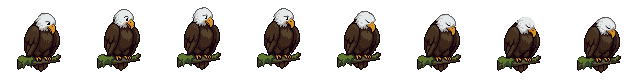
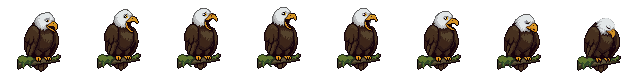
Study Eagle: a real yawn when it falls asleep
The first fall-asleep animation came out as a slow droop with the beak
shut. A second PixelLab pass (same first and last frames) gives a real
yawn: the head tips back, the beak opens wide, then the head sinks into
the sleeping pose. It plays over 2s instead of 1.6s so the open beak
reads. The other sheets are unchanged.

Claude-Session: https://claude.ai/code/session_01Ub7vGjCtfrffF12Lbhvtcm

diff --git a/src/styles.css b/src/styles.css
@@ -454,11 +454,11 @@
   background-size: 800% 100%;
   animation: eagle-celebrate-frames 1.1s steps(8, jump-none) forwards;
 }
-/* Nodding off: 8-frame droop into the sleeping pose, played once (FALL_ASLEEP_MS). */
+/* Nodding off: 8-frame yawn, then the head sinks into the sleeping pose; played once (FALL_ASLEEP_MS). */
 .study-eagle-sprite-fallingAsleep {
   background-image: url("/eagle-fallasleep.png");
   background-size: 800% 100%;
-  animation: eagle-fallasleep-frames 1.6s steps(8, jump-none) forwards;
+  animation: eagle-fallasleep-frames 2s steps(8, jump-none) forwards;
 }
 /* Waking up: 8-frame head-lift and wing stretch, played once (WAKE_UP_MS). */
 .study-eagle-sprite-wakingUp {

diff --git a/src/components/StudyEagle.tsx b/src/components/StudyEagle.tsx
@@ -19,7 +19,7 @@ const DEFAULT_PERCH = 0.62;
 const SLEEP_AFTER_MS = 20_000;
 const CELEBRATE_MS = 1_100; // matches the 8-frame wing-flap in styles.css
 const PET_MS = 900; // matches the 8-frame head-bob in styles.css
-const FALL_ASLEEP_MS = 1_600; // matches the 8-frame droop in styles.css
+const FALL_ASLEEP_MS = 2_000; // matches the 8-frame yawn in styles.css
 const WAKE_UP_MS = 1_200; // matches the 8-frame stretch in styles.css
 /** On phones a celebration pops the tucked-away eagle out for this long. */
 const POP_OUT_MS = 3_000;

diff --git a/scripts/build-eagle-sprites.py b/scripts/build-eagle-sprites.py
@@ -5,7 +5,7 @@
   pixellab-idle.png           PixelLab animation from the awake frame: blink + head turn (8 x 80x80)
   pixellab-celebrate.png      PixelLab animation from the awake frame: wing-flap (8 x 80x80)
   pixellab-pet.png            PixelLab animation from the awake frame: happy head-bob (8 x 80x80)
-  pixellab-fallasleep.png     PixelLab animation, awake frame -> sleep frame 1: eyes droop, head sinks (8 x 80x80)
+  pixellab-fallasleep.png     PixelLab animation, awake frame -> sleep frame 1: a yawn, then the head sinks (8 x 80x80)
   pixellab-wakeup.png         PixelLab animation, sleep frame 1 -> awake frame: head up, wing stretch (8 x 80x80)
 
 Outputs share one frame size, transparent with crisp pixels and one palette. The
@@ -310,7 +310,7 @@ def fix_eye(f, blink=False, reopen=False):
 idle80 = [fix_eye(f, blink=i == 0) for i, f in enumerate(idle80)]   # idle frame 0 is the blink
 celebrate80 = [fix_eye(f, reopen=True) for f in celebrate80]
 pet80, wakeup80 = ([fix_eye(f) for f in group] for group in (pet80, wakeup80))
-# falling asleep: the eyes are drowsy but open for 4 frames, then shut (keep those shut)
+# falling asleep: eyes open through the start of the yawn, then sleepy and shut (keep those)
 fallasleep80 = [fix_eye(f, blink=i >= 4) for i, f in enumerate(fallasleep80)]
 
 # one shared frame: starts at the branch's cut end (wing tips past it go "off screen")
